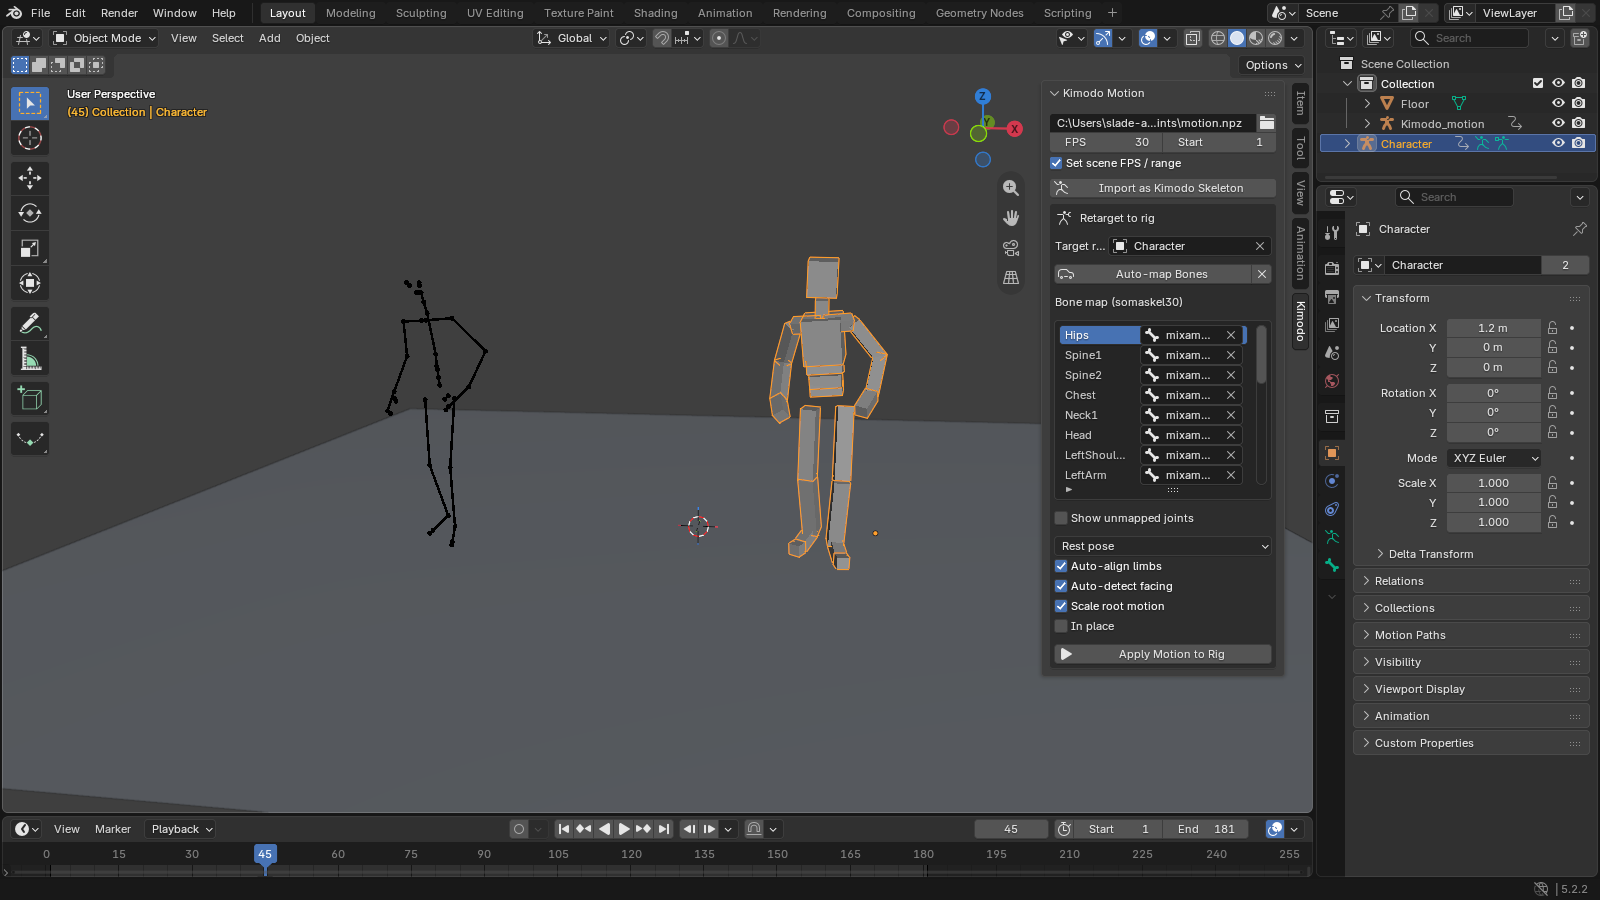
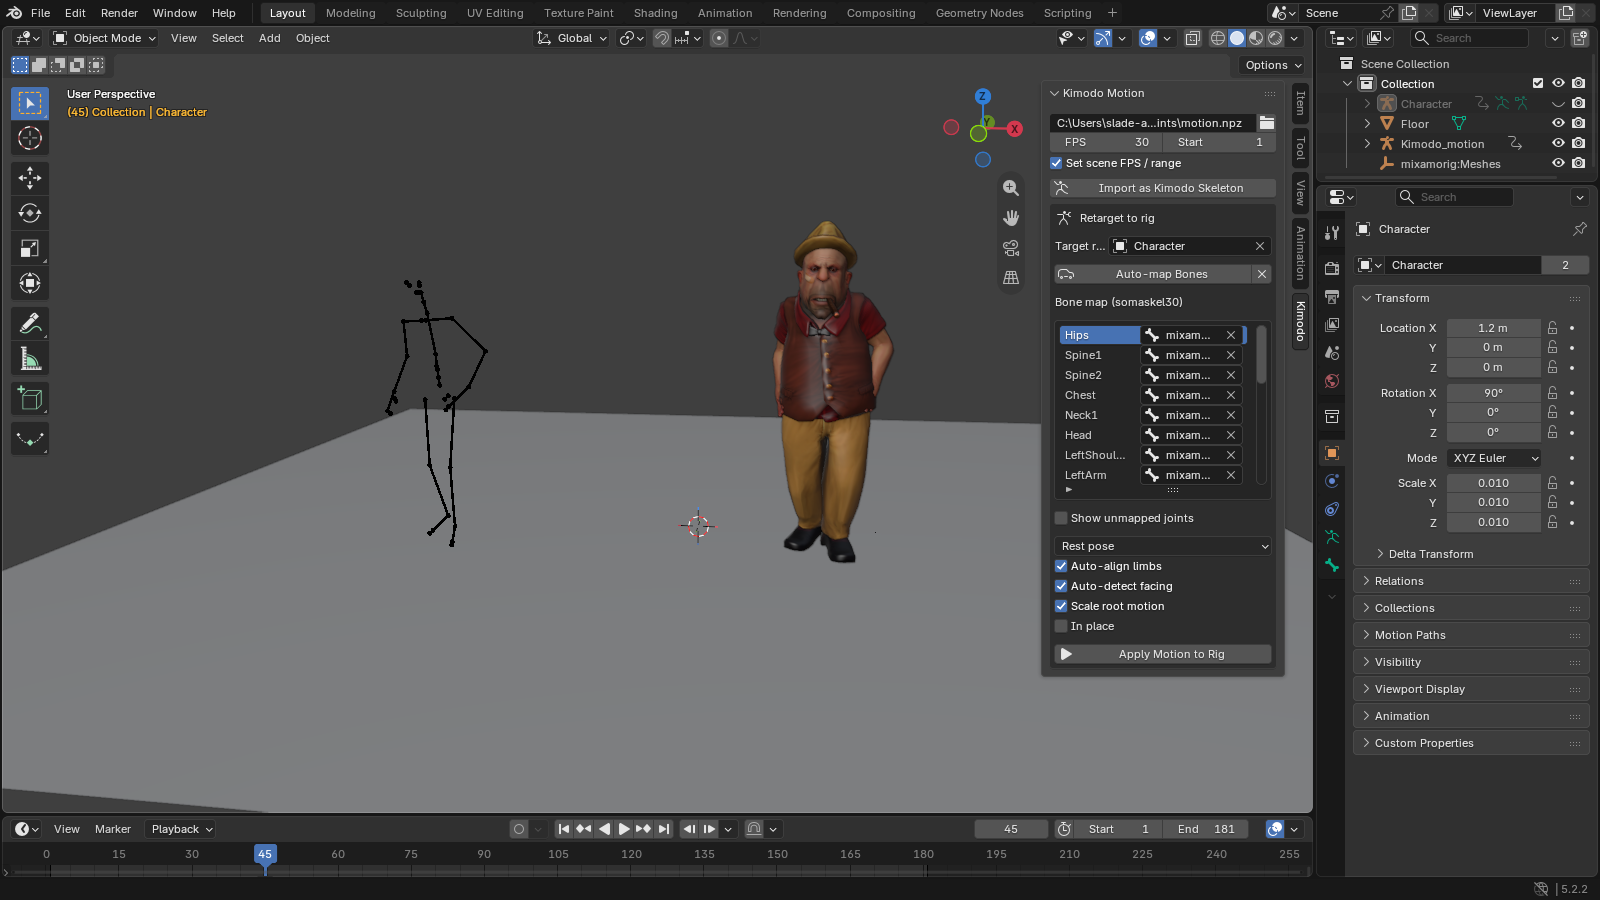
Shorter README; demo images use a textured Mixamo character

diff --git a/README.md b/README.md
@@ -1,256 +1,56 @@
 # Kimodo Motion Importer for Blender
 
-Bring motions generated with [**Kimodo**](https://github.com/nv-tlabs/kimodo) into Blender and put them
-on **your own rigged character**, whether it comes from Mixamo, Rigify, an Unreal mannequin, VRM,
-Character Creator, or a hand-made rig.
+Import motions generated with [Kimodo](https://github.com/nv-tlabs/kimodo) (`.npz`) into Blender and
+apply them to **your own rigged character**: Mixamo, Rigify, Unreal, VRM, Character Creator, and more.
 
-![Kimodo motion (left, black skeleton) retargeted onto an A-pose character rig (right)](images/demo.gif)
-
-*Left: the raw Kimodo skeleton. Right: the same motion retargeted onto a different rig. That rig
-has different proportions, an A-pose rest pose and Mixamo bone names.*
-
----
-
-## Contents
-
-- [Features](#features)
-- [Requirements](#requirements)
-- [Download](#download)
-- [Installation](#installation)
-- [Quick start](#quick-start)
-- [The Kimodo panel](#the-kimodo-panel)
-- [Bone mapping](#bone-mapping)
-- [Options](#options)
-- [Supported Kimodo skeletons](#supported-kimodo-skeletons)
-- [Tips and troubleshooting](#tips-and-troubleshooting)
-- [How it works](#how-it-works)
-- [Building the zip from source](#building-the-zip-from-source)
-- [Credits and license](#credits-and-license)
-
----
+![Kimodo motion (left) applied to a Mixamo character (right)](images/demo.gif)
 
 ## Features
 
-- **One-click import** of Kimodo `.npz` motions as an animated Kimodo skeleton, for a quick preview.
-- **Retargeting onto any humanoid rig**, baked into a normal Blender action that you can edit, put
-  in the NLA, or export to FBX/glTF.
-- **Automatic bone mapping** for common naming conventions: Mixamo, Unreal (UE4/UE5), Rigify
-  `DEF-`, VRM, Character Creator, 3ds Max Biped, SMPL and Kimodo's own names.
-- **Works with A-pose and T-pose rigs**: limb rest directions are aligned automatically.
-- **Handles any facing direction and object transform**: FBX imports with 90° rotation and 0.01
-  scale work as-is.
-- **Root motion scaled to your character's size** so the feet don't slide; an *In place* option
-  removes forward travel.
-- **No extra installs**: uses only Python and numpy, which ship with Blender.
+- Import Kimodo NPZ motions (SOMA, SMPL-X and G1 skeletons are detected automatically)
+- Retarget onto any humanoid rig with **automatic bone mapping**
+- Works with T-pose and A-pose rigs, any facing direction, and FBX imports
+- Root motion is scaled to your character's size; optional **In place** mode
+- Bakes a normal Blender action, ready to edit or export to FBX/glTF
 
-## Requirements
+## Install
 
-| | |
-| --- | --- |
-| Blender | **4.2 or newer** (installs as an extension); 3.6 – 4.1 work as a legacy add-on. Tested on Blender 5.2. |
-| Input | A Kimodo motion exported in the **NPZ** format (see [Quick start](#quick-start)). |
-| Character | A rigged (armature) character, preferably humanoid. |
+1. Download **[kimodo_npz_importer.zip](../../releases/latest/download/kimodo_npz_importer.zip)**
+   (don't unzip it).
+2. In Blender go to **Edit → Preferences → Get Extensions → ⌄ → Install from Disk...** and select
+   the zip.
+   On Blender 3.6 – 4.1, use **Preferences → Add-ons → Install...** instead, then enable the add-on.
 
-## Download
+## Usage
 
-Download **[`kimodo_npz_importer.zip`](../../releases/latest/download/kimodo_npz_importer.zip)** from
-the [latest release](../../releases/latest).
+![The Kimodo panel](images/ui_overview.png)
 
-> Do **not** unzip it. Blender installs the zip file directly.
+1. In the Kimodo demo, export your motion as **Exports → Motion → NPZ**.
+2. In Blender, press **N** in the 3D Viewport and open the **Kimodo** tab.
+3. Pick the `.npz` file and set **FPS** (usually 30).
+4. Set **Target rig** to your character's **armature**, then click **Auto-map Bones**.
+5. Click **Apply Motion to Rig** and press **Space** to play.
 
-## Installation
-
-### Blender 4.2 and newer
-
-1. Open **Edit → Preferences → Get Extensions**.
-2. Click the **⌄** menu in the top-right corner, then **Install from Disk...**
-3. Select `kimodo_npz_importer.zip`. The add-on is enabled automatically.
-
-You can also **drag and drop** the zip file into the Blender window.
-
-### Blender 3.6 – 4.1
-
-1. Open **Edit → Preferences → Add-ons → Install...**
-2. Select `kimodo_npz_importer.zip`.
-3. Tick the checkbox next to **Animation: Kimodo Motion Importer (.npz)**.
-
-After installing, the **Kimodo** tab appears in the 3D Viewport sidebar (press **N**). There is
-also a new menu entry, **File → Import → Kimodo Motion (.npz)**.
-
-## Quick start
-
-### 1. Export the motion from Kimodo
-
-In the Kimodo interactive demo, generate a motion, then open **Exports → Motion**, choose the
-**NPZ** format and download it.
-(The CLI writes the same format: `kimodo_gen ... --output my_motion`.)
-
-> For SMPL-X models choose **NPZ**, not **AMASS NPZ**.
-
-### 2. Import it into Blender
-
-1. Open your character's `.blend` file, or import your character (FBX, glTF, ...).
-2. Press **N** in the 3D Viewport and open the **Kimodo** tab.
-3. Click the folder icon and pick your `.npz` file.
-4. Set **FPS** to the frame rate of the Kimodo model. The demo shows it as *Model FPS*; it is
-   usually **30**.
-
-### 3. Put the motion on your character
-
-1. **Target rig**: pick your character's **armature** object (not the mesh).
-2. Click **Auto-map Bones**, then check the bone map list (see [Bone mapping](#bone-mapping)).
-3. Click **Apply Motion to Rig**.
-4. Press **Space** to play. 🎉
-
-The motion is baked into a new action named `Kimodo_<file>_<rig>`. Your mesh follows through its
-Armature modifier, so no extra setup is needed.
-
-> **Just want to look at the raw motion?** Click **Import as Kimodo Skeleton**. This creates an
-> animated stick-figure armature named `Kimodo_<file>`.
-
-## The Kimodo panel
-
-![The Kimodo panel in the 3D Viewport sidebar](images/ui_overview.png)
-
-| Control | What it does |
-| --- | --- |
-| **NPZ file** | The Kimodo motion to load. |
-| **FPS** | Frame rate of the motion (Kimodo models usually run at 30 FPS). |
-| **Start** | First frame of the baked animation. |
-| **Set scene FPS / range** | Also sets the scene frame rate and frame range to match the motion. |
-| **Import as Kimodo Skeleton** | Creates a new armature with Kimodo's own skeleton and animates it. |
-| **Target rig** | The armature that should receive the motion. |
-| **Auto-map Bones** | Detects the Kimodo skeleton type from the file and guesses the bone mapping. |
-| **✕** (next to Auto-map) | Clears all target bones from the mapping. |
-| **Bone map** | One row per Kimodo joint → your bone. Click a row's field to choose another bone. |
-| **Show unmapped joints** | Also lists Kimodo joints that are not mapped yet (fingers, eyes, ...). |
-| **Rest pose / Current pose** | Which pose of your rig matches Kimodo's T-pose (see [Options](#options)). |
-| **Auto-align limbs**, **Auto-detect facing**, **Scale root motion**, **In place** | See [Options](#options). |
-| **Apply Motion to Rig** | Retargets and bakes the motion onto the target rig. |
-
-## Bone mapping
-
-Kimodo drives about 22 body joints: hips, spine, neck, head, shoulders, arms, forearms, hands,
-thighs, shins, feet and toes. **Auto-map Bones** recognises these naming styles:
-
-| Rig type | Example bone names |
-| --- | --- |
-| Mixamo | `mixamorig:Hips`, `mixamorig:LeftArm`, `mixamorig:RightUpLeg` |
-| Unreal (UE4 / UE5) | `pelvis`, `upperarm_l`, `lowerarm_r`, `thigh_l`, `calf_r`, `ball_l` |
-| Rigify (deform bones) | `DEF-upper_arm.L`, `DEF-forearm.R`, `DEF-thigh.L`, `DEF-shin.R` |
-| VRM / VRoid | `J_Bip_C_Hips`, `J_Bip_L_UpperArm`, `J_Bip_R_LowerLeg` |
-| Character Creator | `CC_Base_L_Upperarm`, `CC_Base_R_Thigh` |
-| 3ds Max Biped | `Bip01 L Thigh`, `Bip01 R Forearm` |
-| SMPL / SMPL-X | `pelvis`, `left_hip`, `left_knee`, `left_collar` |
-| Kimodo / SOMA | `Hips`, `LeftArm`, `LeftShin`, ... (exact name match) |
-
-Twist, IK, pole and helper bones (for example `upperarm_twist_01_l`, `MCH-thigh_ik.L`, `ORG-*`)
-are ignored. Spine bones are found by walking the hierarchy between the hips and the neck, so
-rigs with 1–5 spine bones all work.
-
-**Fixing a wrong or missing bone:** click the bone field in that row and pick the right bone
-from the list. Clear a row with its **✕** button.
-
-**Fingers** (SOMA 77-joint motions only) are not mapped automatically. Enable **Show unmapped
-joints** and map them by hand if your rig has fingers.
-
-The mapping is saved in the `.blend` file. Applying a second motion with the same skeleton
-reuses it.
+To preview the raw motion as a stick skeleton, use **Import as Kimodo Skeleton** (or
+**File → Import → Kimodo Motion (.npz)**).
 
 ## Options
 
-| Option | Default | When to change it |
-| --- | --- | --- |
-| **Rest pose** / **Current pose** | Rest pose | *Rest pose* treats your rig's rest pose as Kimodo's T-pose and works for most rigs. If your rig's rest pose is unusual (e.g. arms forward), choose *Current pose*. Then pose the rig into a T-pose facing the same way as the character, and click Apply. |
-| **Auto-align limbs** | On | Compensates for differences between your rig's arm and leg directions and Kimodo's T-pose, so **A-pose** rigs work. Turn it off if your rig is already in an exact T-pose and you see small wrist or shoulder twists. |
-| **Auto-detect facing** | On | Works out which way the character faces from its left/right hips (or shoulders). Turn it off only if your left/right bones are mislabelled. |
-| **Scale root motion** | On | Scales hip translation by *your hip height / Kimodo hip height*, so a small character takes smaller steps. Turn it off to keep the exact distances in meters. |
-| **In place** | Off | Removes horizontal hip translation, so the character stays on the spot. Useful for game loops. |
+| Option | Description |
+| --- | --- |
+| Rest / Current pose | Which pose of your rig matches Kimodo's T-pose. Use *Current pose* if your rest pose is unusual. |
+| Auto-align limbs | Fixes the arm and leg differences between A-pose and T-pose. |
+| Auto-detect facing | Detects which way your character faces. |
+| Scale root motion | Scales the hip movement to your character's height. |
+| In place | Removes the forward travel. |
 
-## Supported Kimodo skeletons
+## Tips
 
-The skeleton is detected automatically from the number of joints in the file.
+- If a bone is wrong or missing, click its row in the bone map and pick the correct bone.
+- For **Rigify**, target the metarig or the `DEF-` bones, not the control rig.
+- For SMPL-X models, export as **NPZ**, not *AMASS NPZ*.
 
-| Kimodo model | Skeleton | Joints | Notes |
-| --- | --- | --- | --- |
-| Kimodo-SOMA | `somaskel77` | 77 | Default demo export; includes fingers. |
-| Kimodo-SOMA (older files) | `somaskel30` | 30 | Compact skeleton without fingers. |
-| Kimodo-SMPLX | `smplx22` | 22 | Body only. Export as **NPZ**, not AMASS NPZ. |
-| Kimodo-G1 | `g1skel34` | 34 | Unitree G1 robot. Its zero pose has the arms down; *Auto-align limbs* compensates. |
+## License
 
-## Tips and troubleshooting
-
-**The character doesn't move / "No bones are mapped".**
-Make sure **Target rig** is the *armature* object, not the mesh. Then click **Auto-map Bones** and
-check that at least the hips are mapped.
-
-**Arms or legs are twisted or point the wrong way.**
-- Check the mapping. A common mix-up is *UpLeg* (thigh) vs *Leg* (shin) in Mixamo naming.
-- Try **Current pose** mode: pose the rig into a clean T-pose first, then Apply.
-- If your rig is in an exact T-pose, try turning **Auto-align limbs** off.
-
-**The character slides or floats.**
-Keep **Scale root motion** on. The add-on measures your hip height from the lowest bone, so make
-sure the rig's feet touch the floor in its rest pose.
-
-**I use Rigify.**
-Retarget onto the **metarig** or onto the **`DEF-` bones**, not onto the control rig, which
-contains IK and FK controls. You can then bake the result onto the controls with Rigify's
-tools if needed.
-
-**The animation plays too fast or too slow.**
-Set **FPS** to the Kimodo model's frame rate (usually 30) and keep **Set scene FPS / range** on.
-
-**"This looks like an AMASS NPZ".**
-Export the motion with the plain **NPZ** format instead.
-
-**Exporting to a game engine.**
-The result is a regular Blender action on your armature. Export with **File → Export → FBX** or
-**glTF** as usual, with *Bake Animation* enabled.
-
-**Applying a new motion.**
-Each Apply creates a new action. Older actions stay in the file and can be chosen in the
-Action Editor or Dope Sheet, or combined in the NLA editor.
-
-## How it works
-
-A Kimodo NPZ stores, per frame, the **global rotation** of every joint (`global_rot_mats`) and its
-world position (`posed_joints`). These rotations are measured relative to Kimodo's rest pose: a
-T-pose standing on the floor, Y-up, facing +Z.
-
-The add-on:
-
-1. Converts the motion from Kimodo's Y-up space to Blender's Z-up space (the character faces −Y).
-2. For each mapped bone, applies the same **world-space rotation change** that the Kimodo joint has
-   from its T-pose to your bone's reference pose. Limb bones first get a small alignment
-   rotation, so A-pose arms line up with Kimodo's T-pose arms.
-3. Moves the hips along the Kimodo root trajectory, scaled by the hip-height ratio and rotated to
-   the direction your character faces.
-4. Converts everything back to each bone's local space and writes all keyframes directly into a
-   new action. This is fast even for long clips.
-
-Because only world-space rotations are transferred, the result does not depend on bone rolls,
-bone lengths or how the bones are parented.
-
-## Building the zip from source
-
-```bash
-python build_zip.py      # writes dist/kimodo_npz_importer.zip
-```
-
-Repository layout:
-
-```
-kimodo_npz_importer/
-    __init__.py              # the add-on
-    blender_manifest.toml    # Blender 4.2+ extension manifest
-images/                      # README images
-build_zip.py                 # packs the installable zip
-```
-
-## Credits and license
-
-- Add-on by **AminHP**.
-- [Kimodo](https://github.com/nv-tlabs/kimodo) by NVIDIA. The skeleton definitions embedded in
-  this add-on come from Kimodo's assets (Apache-2.0).
-- Licensed under the [Apache License 2.0](LICENSE).
+Made by **AminHP**. Apache-2.0. Skeleton data comes from [Kimodo](https://github.com/nv-tlabs/kimodo)
+by NVIDIA.
